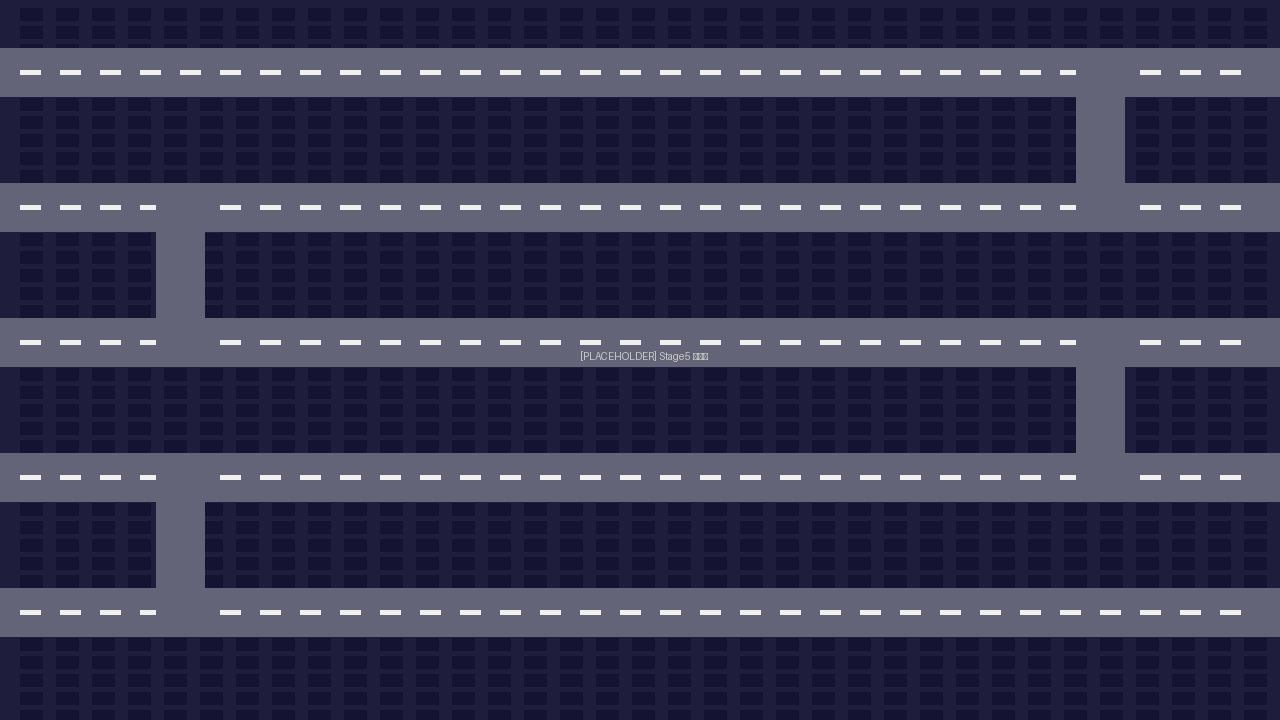
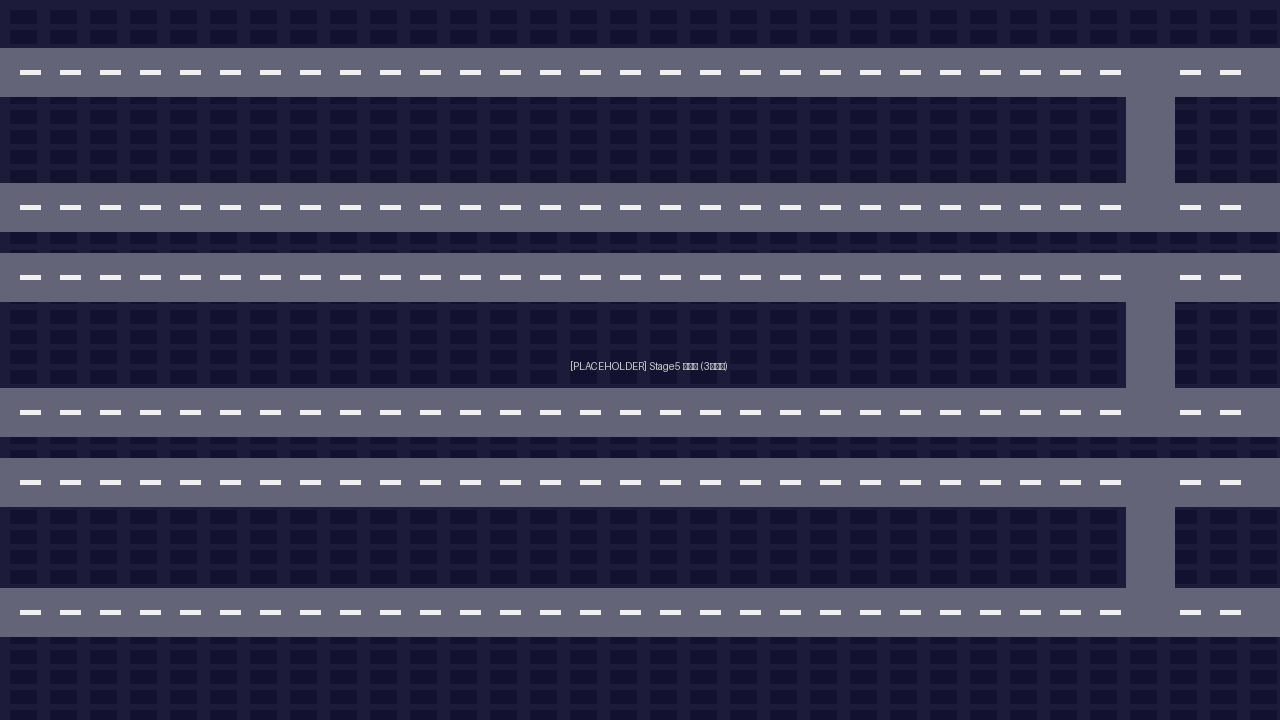
feat: sniper range buff, multi-path branching for Stage 4/5, wave counts 50/100
- 警備員: range 200→250 base, up.range 12→40 (Lv15 = 810px, covers full map)
- Stage 4 商業施設: 2-route branching (paths[]), enemies randomly pick upper/lower
- Stage 5 地下街: 3-route branching (paths[]), enemies randomly pick upper/middle/lower
- Stage 4: 50 waves, Stage 5: 100 waves
- GameScene: multi-path support (this.paths array, e.pathIdx), backward-compatible
- Updated placeholder backgrounds for split-route layouts

Changed region(s): [[0.0, 0.275, 1.0, 0.8556], [0.8438, 0.0917, 0.9375, 0.3056]]

diff --git a/src/data/maps.js b/src/data/maps.js
@@ -122,17 +122,17 @@ export const MAPS = [
     roadWidth: 52,
     startMoney: 150,
     startLives: 20,
-    // 4レーン蛇行 — レーン中心 y=85/250/415/580
-    path: [
-      [-60, 85], [1150, 85], [1150, 250], [130, 250],
-      [130, 415], [1150, 415], [1150, 580], [-60, 580],
+    // ルート分岐 — 上ルートと下ルートの2本（敵がランダムに選択）
+    // 上ルート: y=85→250（2レーン）  下ルート: y=415→580（2レーン）
+    paths: [
+      [[-60, 85],  [1150, 85],  [1150, 250], [-60, 250]],
+      [[-60, 415], [1150, 415], [1150, 580], [-60, 580]],
     ],
     spots: [
-      { x: 320, y: 167 }, { x: 560, y: 167 }, { x: 800, y: 167 }, { x: 1040, y: 167 },
-      { x: 320, y: 332 }, { x: 560, y: 332 }, { x: 800, y: 332 }, { x: 1040, y: 332 },
-      { x: 320, y: 497 }, { x: 560, y: 497 }, { x: 800, y: 497 }, { x: 1040, y: 497 },
+      { x: 300, y: 167 }, { x: 560, y: 167 }, { x: 820, y: 167 }, { x: 1080, y: 167 },
+      { x: 300, y: 497 }, { x: 560, y: 497 }, { x: 820, y: 497 }, { x: 1080, y: 497 },
     ],
-    waves: generateWaves(4),
+    waves: generateWaves(4, 50),
   },
   {
     name: '地下街',
@@ -140,18 +140,18 @@ export const MAPS = [
     roadWidth: 48,
     startMoney: 170,
     startLives: 20,
-    // 5レーン蛇行 — レーン中心 y=72/207/342/477/612
-    path: [
-      [-60, 72], [1100, 72], [1100, 207], [180, 207],
-      [180, 342], [1100, 342], [1100, 477], [180, 477],
-      [180, 612], [1340, 612],
+    // ルート分岐 — 3本ルート（上・中・下、敵がランダムに選択）
+    // 上: y=72→207  中: y=277→412  下: y=482→612
+    paths: [
+      [[-60, 72],  [1100, 72],  [1100, 207], [-60, 207]],
+      [[-60, 277], [1100, 277], [1100, 412], [-60, 412]],
+      [[-60, 482], [1100, 482], [1100, 612], [-60, 612]],
     ],
     spots: [
-      { x: 340, y: 139 }, { x: 580, y: 139 }, { x: 820, y: 139 }, { x: 1060, y: 139 },
-      { x: 340, y: 274 }, { x: 580, y: 274 }, { x: 820, y: 274 },
-      { x: 340, y: 409 }, { x: 580, y: 409 }, { x: 820, y: 409 }, { x: 1060, y: 409 },
-      { x: 340, y: 544 }, { x: 580, y: 544 }, { x: 820, y: 544 },
+      { x: 280, y: 139 }, { x: 560, y: 139 }, { x: 840, y: 139 }, { x: 1060, y: 139 },
+      { x: 280, y: 344 }, { x: 560, y: 344 }, { x: 840, y: 344 }, { x: 1060, y: 344 },
+      { x: 280, y: 547 }, { x: 560, y: 547 }, { x: 840, y: 547 }, { x: 1060, y: 547 },
     ],
-    waves: generateWaves(5),
+    waves: generateWaves(5, 100),
   },
 ];

diff --git a/src/scenes/GameScene.js b/src/scenes/GameScene.js
@@ -44,7 +44,9 @@ export default class GameScene extends Phaser.Scene {
     this.waves = this.map.waves;
 
     // ── 状態を毎回まっさらに（restartで再create）──
-    this.path = buildPath(this.map.path);
+    // paths: 複数ルート対応（map.paths があれば全ビルド、なければ単一パスを配列化）
+    this.paths = (this.map.paths || [this.map.path]).map(buildPath);
+    this.path = this.paths[0]; // 既存コード（射程判定・HUD等）の互換用
     this.money = this.map.startMoney;
     this.lives = this.map.startLives;
     this.waveStartedCount = 0; // これまでに開始したウェーブ数
@@ -292,7 +294,9 @@ export default class GameScene extends Phaser.Scene {
   // ── 敵 ───────────────────────────────────────────────────
   spawnEnemy(type, startDist = 0) {
     const def = ENEMIES[type];
-    const pos = posAt(this.path, startDist);
+    const pathIdx = Math.floor(Math.random() * this.paths.length);
+    const epath = this.paths[pathIdx];
+    const pos = posAt(epath, startDist);
     const barW = Math.max(24, def.size);
 
     const SPRITE_TYPES = new Set(['grunt', 'runner', 'brute', 'boss', 'subashikko', 'zombie']);
@@ -330,7 +334,7 @@ export default class GameScene extends Phaser.Scene {
     this.enemies.push({
       type, def, speed: def.speed, dist: startDist, hp: def.hp, maxHp: def.hp,
       x: pos.x, y: pos.y, alive: true, barW, body, face, hpBg, hpFill,
-      hasSprite, animTimer: 0, animFrame: 0, barYOff, spriteYOff,
+      hasSprite, animTimer: 0, animFrame: 0, barYOff, spriteYOff, pathIdx,
     });
   }
 
@@ -766,7 +770,8 @@ export default class GameScene extends Phaser.Scene {
         }
       }
       e.dist += e.speed * (e.slowMult || 1) * dt;
-      if (e.dist >= this.path.total) {
+      const epath = this.paths[e.pathIdx ?? 0];
+      if (e.dist >= epath.total) {
         // ゴール到達＝ライフ減・撃破報酬なし
         e.alive = false;
         this.lives -= e.def.leak;
@@ -777,7 +782,7 @@ export default class GameScene extends Phaser.Scene {
         if (this.lives <= 0) { this.lives = 0; this.updateHud(); this.showEnd(false); return; }
         continue;
       }
-      const pos = posAt(this.path, e.dist);
+      const pos = posAt(epath, e.dist);
       e.x = pos.x; e.y = pos.y;
       e.body.setPosition(pos.x, pos.y + (e.spriteYOff ?? 0));
       if (e.hasSprite) {
@@ -789,7 +794,7 @@ export default class GameScene extends Phaser.Scene {
           e.body.setTexture(`${e.type}_walk_${e.animFrame + 1}`);
         }
         // 移動方向に応じて左右反転
-        const posNext = posAt(this.path, Math.min(e.dist + 2, this.path.total));
+        const posNext = posAt(epath, Math.min(e.dist + 2, epath.total));
         e.body.setFlipX(posNext.x < pos.x);
       } else {
         e.face.setPosition(pos.x, pos.y);

diff --git a/src/data/content.js b/src/data/content.js
@@ -38,8 +38,8 @@ export const TOWERS = {
     name: '警備員', kind: 'single', color: 0x4a5568,
     projColors: [0xffffff, 0xffd700, 0xff8c00],
     projSizes:  [4, 6, 9],
-    cost: 90, range: 200, damage: 18, fireRate: 2000, projSpeed: 900, splash: 0,
-    maxLevel: 15, up: { cost: 20, damage: 7, range: 12, splash: 0 },
+    cost: 90, range: 250, damage: 18, fireRate: 2000, projSpeed: 900, splash: 0,
+    maxLevel: 15, up: { cost: 28, damage: 7, range: 40, splash: 0 },
   },
   receptionist: {
     name: '受付嬢', kind: 'charm', color: 0xe87ac1, projColor: 0xff69b4,